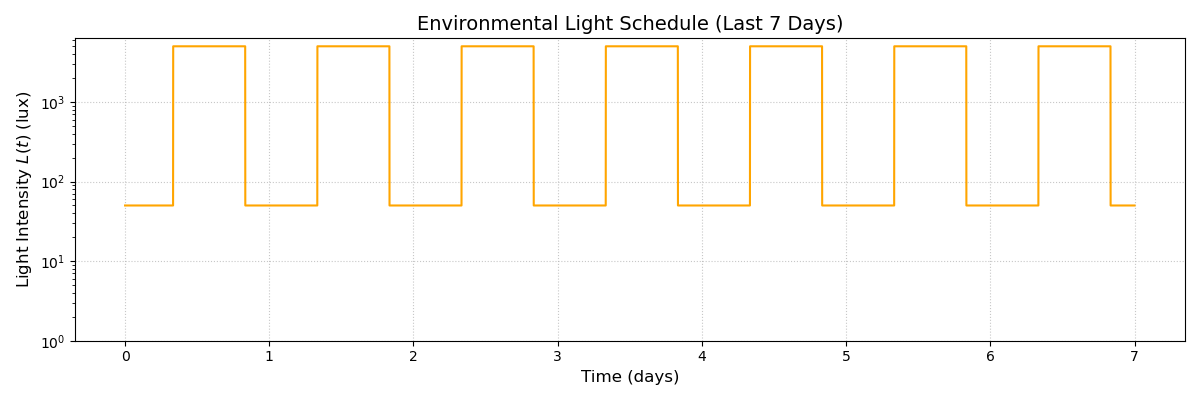
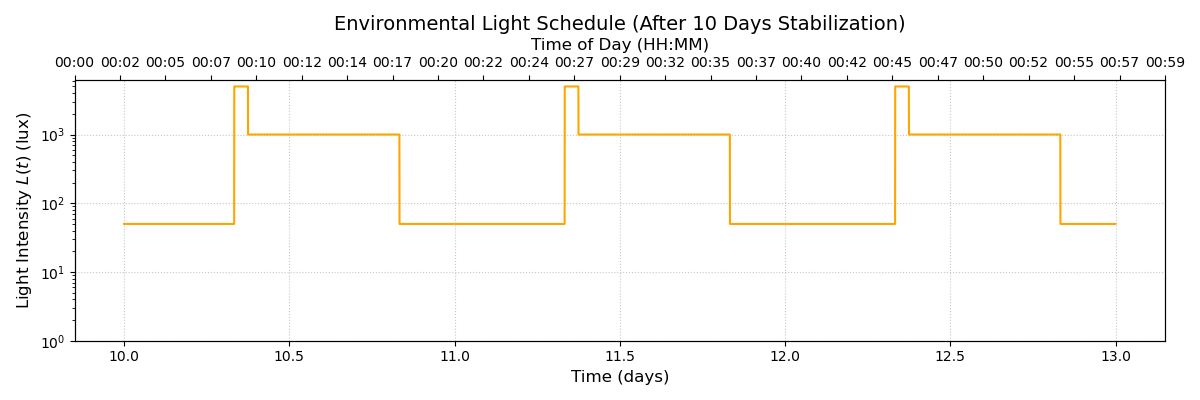
SCN

diff --git a/SCN/KJF.py b/SCN/KJF.py
@@ -12,23 +12,39 @@ warnings.filterwarnings('ignore', category=UserWarning)
 tau_x0 = 24.2    # Intrinsic period of the SCN oscillator (hours)
 mu = 0.13        # Stiffness parameter of the van der Pol oscillator, affecting limit cycle shape
 k_B = 0.0035     # Parameter influencing the amplitude and stability of xc
-lambda_n = 0.013 # Rate constant for the dynamics of light adaptation state n
+lambda_n = 60 #0.013 # Rate constant for the dynamics of light adaptation state n
 beta_n = 0.0075  # Rate constant for the decay of light adaptation state n
 G = 33.0         # Gain factor for the circadian light stimulus B(t)
 b_x = 0.02       # Coefficient for the gating of light input by state variable x
 b_xc = 0.05      # Coefficient for the gating of light input by state variable xc
-alpha_0_val = 0.0001 # Baseline effective photic input rate
-I_0 = 450.0      # Threshold light intensity for photic input saturation (lux)
+alpha_0_val = 0.05 # Baseline effective photic input rate
+I_0 = 9500.0      # Threshold light intensity for photic input saturation (lux)
 q_factor = 0.99669 # Period correction factor used in the xc dynamics
+q = 1.0          # Fixed q value
 stabilisation = 10
 # --- Helper Functions ---
 
-def light_schedule(t, light_on_time=8.0, light_off_time=20.0, bright_lux=5000.0, dim_lux=50.0):
+def format_time_label(x, pos):
+    """
+    Format time label to show time of day in HH:MM format.
+    Args:
+        x (float): Time in days
+        pos: Position parameter (required by matplotlib formatter)
+    Returns:
+        str: Formatted time string
+    """
+    total_hours = x * 24  # Convert days to hours
+    hours = int(total_hours % 24)  # Get hours within day
+    minutes = int((total_hours * 60) % 60)  # Get minutes
+    return f"{hours:02d}:{minutes:02d}"
+
+def light_schedule(t, light_on_time=7.0, light_dark_time=9.5, light_off_time=20.0, bright_lux=25000.0, mid_lux = 10000, dim_lux=50.0):
     """
     Determines the environmental light intensity L(t) based on a square wave light-dark cycle.
     Args:
         t (float): Current time in hours.
         light_on_time (float): Time of day when bright light turns on (hours from midnight).
+        light_dark_time (float): Time of day in cubicle (hours from midnight).
         light_off_time (float): Time of day when bright light turns off (hours from midnight).
         bright_lux (float): Light intensity during the bright phase (lux).
         dim_lux (float): Light intensity during the dim phase (lux).
@@ -36,8 +52,10 @@ def light_schedule(t, light_on_time=8.0, light_off_time=20.0, bright_lux=5000.0,
         float: Light intensity L(t) at time t.
     """
     t_in_day = t % 24.0  # Time within a 24-hour cycle
-    if light_on_time <= t_in_day < light_off_time:
+    if light_on_time <= t_in_day < light_dark_time:
         return bright_lux
+    elif light_dark_time <= t_in_day < light_off_time:
+        return mid_lux
     else:
         return dim_lux
 
@@ -58,7 +76,8 @@ def effective_photic_input(L_val, alpha_0_param, I_0_param):
     
     ratio = L_val / I_0_param
     if L_val <= I_0_param:
-        p = 1.0  # Linear response below I_0
+        #p = 1.0  # Linear response below I_0
+        p = 0.5
     else:
         p = 0.45 # Compressive response above I_0 (saturation effect)
     return alpha_0_param * (ratio ** p)
@@ -66,7 +85,7 @@ def effective_photic_input(L_val, alpha_0_param, I_0_param):
 # --- ODE System Definition (SCN Model) ---
 
 def scn_model(Y, t, *params):
-        # ---- START DEBUG PRINT ----
+    # ---- START DEBUG PRINT ----
     if 'debug_printed' not in scn_model.__dict__: # Print only once or a few times
         print("--- Running scn_model with (Y, t, *params) signature ---")
         print(f"Type of Y: {type(Y)}, Type of t: {type(t)}")
@@ -91,7 +110,7 @@ def scn_model(Y, t, *params):
     # Unpack parameters
     tau_x0_p = params[0]
     mu_p = params[1]
-    k_B_p = params[2]
+    k_B_p = params[2]  # This is k_B from the global parameters
     lambda_n_p = params[3]
     beta_n_p = params[4]
     G_p = params[5]
@@ -100,6 +119,22 @@ def scn_model(Y, t, *params):
     alpha_0_p = params[8]
     I_0_p = params[9]
     q_factor_p = params[10]
+
+    # Debug print parameters (only once)
+    if not hasattr(scn_model, 'params_printed'):
+        print("\nModel Parameters:")
+        print(f"tau_x0: {tau_x0_p}")
+        print(f"mu: {mu_p}")
+        print(f"k_B: {k_B_p}")
+        print(f"lambda_n: {lambda_n_p}")
+        print(f"beta_n: {beta_n_p}")
+        print(f"G: {G_p}")
+        print(f"b_x: {b_x_p}")
+        print(f"b_xc: {b_xc_p}")
+        print(f"alpha_0: {alpha_0_p}")
+        print(f"I_0: {I_0_p}")
+        print(f"q_factor: {q_factor_p}")
+        scn_model.params_printed = True
 
     # 1. Determine current light intensity L(t)
     L_val = light_schedule(t)
@@ -112,17 +147,25 @@ def scn_model(Y, t, *params):
     # and the photoreceptor adaptation state (n), drives the oscillator.
     B_t = G_p * alpha_val * (1 - n) * (1 - b_x_p * x - b_xc_p * xc)
 
+    # Debug print for key variables (only print occasionally to avoid spam)
+    if t % 24 < 0.01:  # Print roughly once per day
+        print(f"\nDebug at t={t:.2f}:")
+        print(f"L_val: {L_val:.2f}")
+        print(f"alpha_val: {alpha_val:.6f}")
+        print(f"B_t: {B_t:.6f}")
+        print(f"x: {x:.6f}, xc: {xc:.6f}, n: {n:.6f}")
+
     # 4. SCN Oscillator Equations (Process P)
-    # These equations describe a van der Pol-type oscillator, representing the core SCN pacemaker.
-    # dx/dt: Dynamics of state variable x. Includes coupling to xc, a van der Pol term for
-    #        limit cycle behavior, and the light stimulus B(t).
-    dxdt = (np.pi / tau_x0_p) * (xc + mu_p * ((1/3)*x + (4/3)*(x**3)) + B_t)
+    # Modified van der Pol term with proper bounds
+    x_clipped = np.clip(x, -3, 3)  # Clip x to reasonable range
+    vdp_term = mu_p * (x_clipped/3 + (4/3)*np.clip(x_clipped**3, -3, 3))
+    dxdt = (np.pi / tau_x0_p) * (xc + vdp_term + B_t)
     
-    # dxc/dt: Dynamics of state variable xc. Coupled to x and includes a term to maintain
-    #         oscillation amplitude and period, adjusted by q_factor and k_B.
-    # The term (24 / (q_factor_p * tau_x0_p)) is a period/amplitude scaling factor.
-    x_coeff = -(24 / (q_factor_p * tau_x0_p))**2
-    dxc_dt = (np.pi / tau_x0_p) * (k_B_p * xc + x_coeff * x)
+    # dxc/dt: Dynamics of state variable xc
+    # Modified x_coeff calculation with better damping
+    base_coeff = -(24 / (q_factor_p * tau_x0_p))**2
+    x_coeff = base_coeff + k_B_p * B_t
+    dxc_dt = (np.pi / tau_x0_p) * (q*B_t * xc + x_coeff * x)
 
     # 5. Light Adaptation Equation (Process L)
     # dn/dt: Dynamics of the photoreceptor adaptation state n.
@@ -133,15 +176,15 @@ def scn_model(Y, t, *params):
     return [dxdt, dxc_dt, dndt]
 
 # --- Simulation Setup ---
-total_days = stabilisation + 2 #15
+total_days = stabilisation + 3 #15
 total_hours = total_days * 24.0
-dt = 0.01  # Time step for output (hours)
-t_eval = np.arange(0, total_hours, dt) # Time array for simulation
+dt = 0.1  # Increased time step for better stability
+t_eval = np.arange(0, total_hours, dt)
 
-# Initial conditions
-x_init = 0.1   # Initial state for x
-xc_init = 0.1  # Initial state for xc
-n_init = 0.5   # Initial state for light adaptation n (0 to 1)
+# Initial conditions - increased to help with stability
+x_init = 0.5    # Increased from 0.1
+xc_init = 0.5   # Increased from 0.1
+n_init = 0.5    # Kept the same
 Y0 = [x_init, xc_init, n_init]
 
 # Pack parameters for odeint
@@ -150,10 +193,33 @@ model_params = (tau_x0, mu, k_B, lambda_n, beta_n, G, b_x, b_xc, alpha_0_val, I_
 # --- Perform Simulation ---
 print(f"Starting simulation for {total_days} days...")
 try:
-    # Use rtol and atol parameters for better numerical stability
-    solution = odeint(scn_model, Y0, t_eval, 
-                     args=model_params,
-                     rtol=1e-6, atol=1e-6)
+    # Print initial derivatives to check if they're reasonable
+    initial_derivatives = scn_model(Y0, 0, *model_params)
+    print("\nInitial derivatives at t=0:")
+    print(f"dx/dt: {initial_derivatives[0]:.6f}")
+    print(f"dxc/dt: {initial_derivatives[1]:.6f}")
+    print(f"dn/dt: {initial_derivatives[2]:.6f}")
+    
+    # Use LSODA solver with more conservative parameters
+    from scipy.integrate import solve_ivp
+    
+    def scn_model_wrapper(t, Y):
+        return scn_model(Y, t, *model_params)
+    
+    solution = solve_ivp(scn_model_wrapper, 
+                        t_span=(0, total_hours),
+                        y0=Y0,
+                        t_eval=t_eval,
+                        method='LSODA',
+                        rtol=1e-4,
+                        atol=1e-4)
+    
+    if not solution.success:
+        print(f"\nSolver failed: {solution.message}")
+        sys.exit(1)
+        
+    solution = solution.y.T  # Transpose to match odeint format
+    
     print("Simulation complete.")
 except Exception as e:
     print(f"Error during simulation: {str(e)}")
@@ -162,6 +228,16 @@ except Exception as e:
 # Check for numerical stability
 if not np.all(np.isfinite(solution)):
     print("Warning: Numerical instability detected in solution")
+    # Find where the solution becomes non-finite
+    bad_indices = np.where(~np.isfinite(solution))[0]
+    if len(bad_indices) > 0:
+        print(f"First occurrence of non-finite value at t={t_eval[bad_indices[0]]:.2f}")
+    sys.exit(1)
+
+# Check if solution is stuck at zero
+if np.allclose(solution, 0, atol=1e-10):
+    print("Warning: Solution appears to be stuck at zero")
+    print("This might indicate a problem with the initial conditions or parameters")
     sys.exit(1)
 
 x_sol = solution[:, 0]
@@ -180,79 +256,137 @@ try:
     # Set matplotlib to use a non-interactive backend
     plt.switch_backend('Agg')
     
-    # 1. SCN Oscillator Phase Space (last 2 days)
-    hours_for_phase_plot = total_days * 24
-    num_points_phase_plot = int(hours_for_phase_plot / dt)
-
-    plt.figure(figsize=(8, 7)) # Increased height for better aspect ratio with title
-    plt.plot(x_sol[-num_points_phase_plot:], xc_sol[-num_points_phase_plot:], color='dodgerblue')
+    # Calculate indices for post-stabilization period
+    stabilization_hours = stabilisation * 24
+    simulation_hours = (total_days - stabilisation) * 24
+    post_stab_indices = (t_eval >= stabilization_hours) & (t_eval < total_days * 24)
+    
+    # 1. SCN Oscillator Phase Space (simulation period only)
+    plt.figure(figsize=(8, 7))
+    plt.plot(x_sol[post_stab_indices], xc_sol[post_stab_indices], color='dodgerblue')
     plt.xlabel('SCN State Variable $x$', fontsize=12)
     plt.ylabel('SCN State Variable $x_c$', fontsize=12)
-    plt.title(f'SCN Oscillator Phase Space (Last {hours_for_phase_plot/24:.0f} Days)', fontsize=14)
+    plt.title(f'SCN Oscillator Phase Space (After {stabilisation} Days Stabilization)', fontsize=14)
     plt.grid(True, linestyle=':', alpha=0.7)
     plt.axhline(0, color='black', linewidth=0.5)
     plt.axvline(0, color='black', linewidth=0.5)
-    plt.axis('equal') # Ensures circular limit cycles appear circular
+    plt.axis('equal')
     plt.tight_layout()
     plt.savefig('scn_phase_space.png')
     plt.close()
     
-    # 2. SCN Internal Phase (theta) over Time (last 5 days)
-    hours_for_theta_plot = total_days * 24
-    num_points_theta_plot = int(hours_for_theta_plot / dt)
-
-    # Time axis in days for this plot
-    time_in_days_for_theta_plot = t_eval[-num_points_theta_plot:] / 24.0
-
-    # Create a figure with two subplots for wrapped and unwrapped phase
+    # 2. SCN Internal Phase (theta) over Time (simulation period only)
     plt.figure(figsize=(12, 10))
     
     # 2a. Wrapped Phase Plot (top)
     plt.subplot(2, 1, 1)
-    plt.plot(time_in_days_for_theta_plot, theta_t_raw[-num_points_theta_plot:], color='red')
+    plt.plot(t_eval[post_stab_indices] / 24.0, theta_t_raw[post_stab_indices], color='red')
     plt.xlabel('Time (days)', fontsize=12)
     plt.ylabel('SCN Internal Phase $\\theta(t)$ (radians)', fontsize=12)
-    plt.title('Wrapped SCN Internal Phase (Last 5 Days)', fontsize=14)
+    plt.title(f'Wrapped SCN Internal Phase (After {stabilisation} Days Stabilization)', fontsize=14)
     plt.grid(True, linestyle=':', alpha=0.7)
     plt.axhline(y=np.pi, color='gray', linestyle='--', alpha=0.5)
     plt.axhline(y=-np.pi, color='gray', linestyle='--', alpha=0.5)
     plt.ylim(-np.pi-0.1, np.pi+0.1)
     
+    # Add secondary x-axis with 24-hour clock format
+    ax2 = plt.gca().twiny()
+    ax2.set_xlim(plt.gca().get_xlim())
+    ax2.xaxis.set_major_formatter(plt.FuncFormatter(format_time_label))
+    ax2.set_xlabel('Time of Day (HH:MM)', fontsize=12)
+    ax2.xaxis.set_major_locator(plt.MultipleLocator(1/24))  # Show every hour
+    
     # 2b. Unwrapped Phase Plot (bottom)
     plt.subplot(2, 1, 2)
-    plt.plot(time_in_days_for_theta_plot, theta_t_unwrapped[-num_points_theta_plot:], color='green')
+    plt.plot(t_eval[post_stab_indices] / 24.0, theta_t_unwrapped[post_stab_indices], color='green')
     plt.xlabel('Time (days)', fontsize=12)
     plt.ylabel('Unwrapped SCN Internal Phase $\\theta(t)$ (radians)', fontsize=12)
-    plt.title(f'SCN Internal Phase $\\theta(t)$ over Time (Last {hours_for_theta_plot/24:.0f} Days)', fontsize=14)
+    plt.title(f'Unwrapped SCN Internal Phase (After {stabilisation} Days Stabilization)', fontsize=14)
     plt.grid(True, linestyle=':', alpha=0.7)
+    
+    # Add secondary x-axis with 24-hour clock format
+    ax2 = plt.gca().twiny()
+    ax2.set_xlim(plt.gca().get_xlim())
+    ax2.xaxis.set_major_formatter(plt.FuncFormatter(format_time_label))
+    ax2.set_xlabel('Time of Day (HH:MM)', fontsize=12)
+    ax2.xaxis.set_major_locator(plt.MultipleLocator(1/24))  # Show every hour
     
     plt.tight_layout()
     plt.savefig('scn_phase_comparison.png')
     plt.close()
     
-    # 3. Optional: Plot Light Schedule (last 5 days for context with phase plot)
+    # 3. Optional: Plot Light Schedule (simulation period only)
     L_values_over_time = np.array([light_schedule(t_val) for t_val in t_eval])
 
     plt.figure(figsize=(12, 4))
-    plt.plot(time_in_days_for_theta_plot, L_values_over_time[-num_points_theta_plot:], color='orange')
-    # Full schedule: plt.plot(t_eval / 24, L_values_over_time, color='orange')
+    plt.plot(t_eval[post_stab_indices] / 24.0, L_values_over_time[post_stab_indices], color='orange')
     plt.xlabel('Time (days)', fontsize=12)
     plt.ylabel('Light Intensity $L(t)$ (lux)', fontsize=12)
-    plt.title(f'Environmental Light Schedule (Last {hours_for_theta_plot/24:.0f} Days)', fontsize=14)
+    plt.title(f'Environmental Light Schedule (After {stabilisation} Days Stabilization)', fontsize=14)
     plt.grid(True, linestyle=':', alpha=0.7)
-    plt.yscale('log') # Light intensity varies greatly, log scale can be useful
-    plt.ylim(bottom=1) # Avoid log(0) issues, ensure dim light is visible
+    plt.yscale('log')
+    plt.ylim(bottom=1)
+    
+    # Add secondary x-axis with 24-hour clock format
+    ax2 = plt.gca().twiny()
+    ax2.set_xlim(plt.gca().get_xlim())
+    ax2.xaxis.set_major_formatter(plt.FuncFormatter(format_time_label))
+    ax2.set_xlabel('Time of Day (HH:MM)', fontsize=12)
+    ax2.xaxis.set_major_locator(plt.MultipleLocator(1/24))  # Show every hour
+    
     plt.tight_layout()
     plt.savefig('scn_light_schedule.png')
+    plt.close()
+    
+    # 4. Plot xc over time
+    plt.figure(figsize=(12, 4))
+    plt.plot(t_eval[post_stab_indices] / 24.0, xc_sol[post_stab_indices], color='purple')
+    plt.xlabel('Time (days)', fontsize=12)
+    plt.ylabel('SCN State Variable $x_c$', fontsize=12)
+    plt.title(f'SCN State Variable $x_c$ Over Time (After {stabilisation} Days Stabilization)', fontsize=14)
+    plt.grid(True, linestyle=':', alpha=0.7)
+    
+    # Add secondary x-axis with 24-hour clock format
+    ax2 = plt.gca().twiny()
+    ax2.set_xlim(plt.gca().get_xlim())
+    ax2.xaxis.set_major_formatter(plt.FuncFormatter(format_time_label))
+    ax2.set_xlabel('Time of Day (HH:MM)', fontsize=12)
+    ax2.xaxis.set_major_locator(plt.MultipleLocator(1/24))  # Show every hour
+    
+    plt.tight_layout()
+    plt.savefig('scn_xc_time.png')
     plt.close()
     
     print("\nPlots have been saved as:")
     print("1. scn_phase_space.png")
     print("2. scn_phase_comparison.png (shows both wrapped and unwrapped phase)")
     print("3. scn_light_schedule.png")
+    print("4. scn_xc_time.png")
+    print(f"\nNote: All plots show {total_days - stabilisation} days of simulation data after {stabilisation} days of stabilization")
+    print("      All time-based plots include 24-hour clock format on top axis")
     
 except Exception as e:
     print(f"Error during plotting: {str(e)}")
     sys.exit(1)
 
 print("\nScript finished. Check the saved plot files.")
+
+# Add debug printing for key variables
+print("\nDebug Values (showing every 24 hours after stabilization):")
+print("Time (hrs) | x_sol | xc_sol | theta_raw")
+print("-" * 50)
+
+# Calculate indices for post-stabilization period
+stabilization_hours = stabilisation * 24
+post_stab_indices = (t_eval >= stabilization_hours) & (t_eval < total_days * 24)
+
+# Print values every 24 hours
+for i in range(len(t_eval)):
+    if post_stab_indices[i] and i % 2400 == 0:  # 2400 = 24 hours * 100 (since dt = 0.01)
+        print(f"{t_eval[i]:8.2f} | {x_sol[i]:6.3f} | {xc_sol[i]:6.3f} | {theta_t_raw[i]:6.3f}")
+
+# Print final values
+print("\nFinal Values:")
+print(f"Final x_sol: {x_sol[-1]:.6f}")
+print(f"Final xc_sol: {xc_sol[-1]:.6f}")
+print(f"Final theta_raw: {theta_t_raw[-1]:.6f}")
